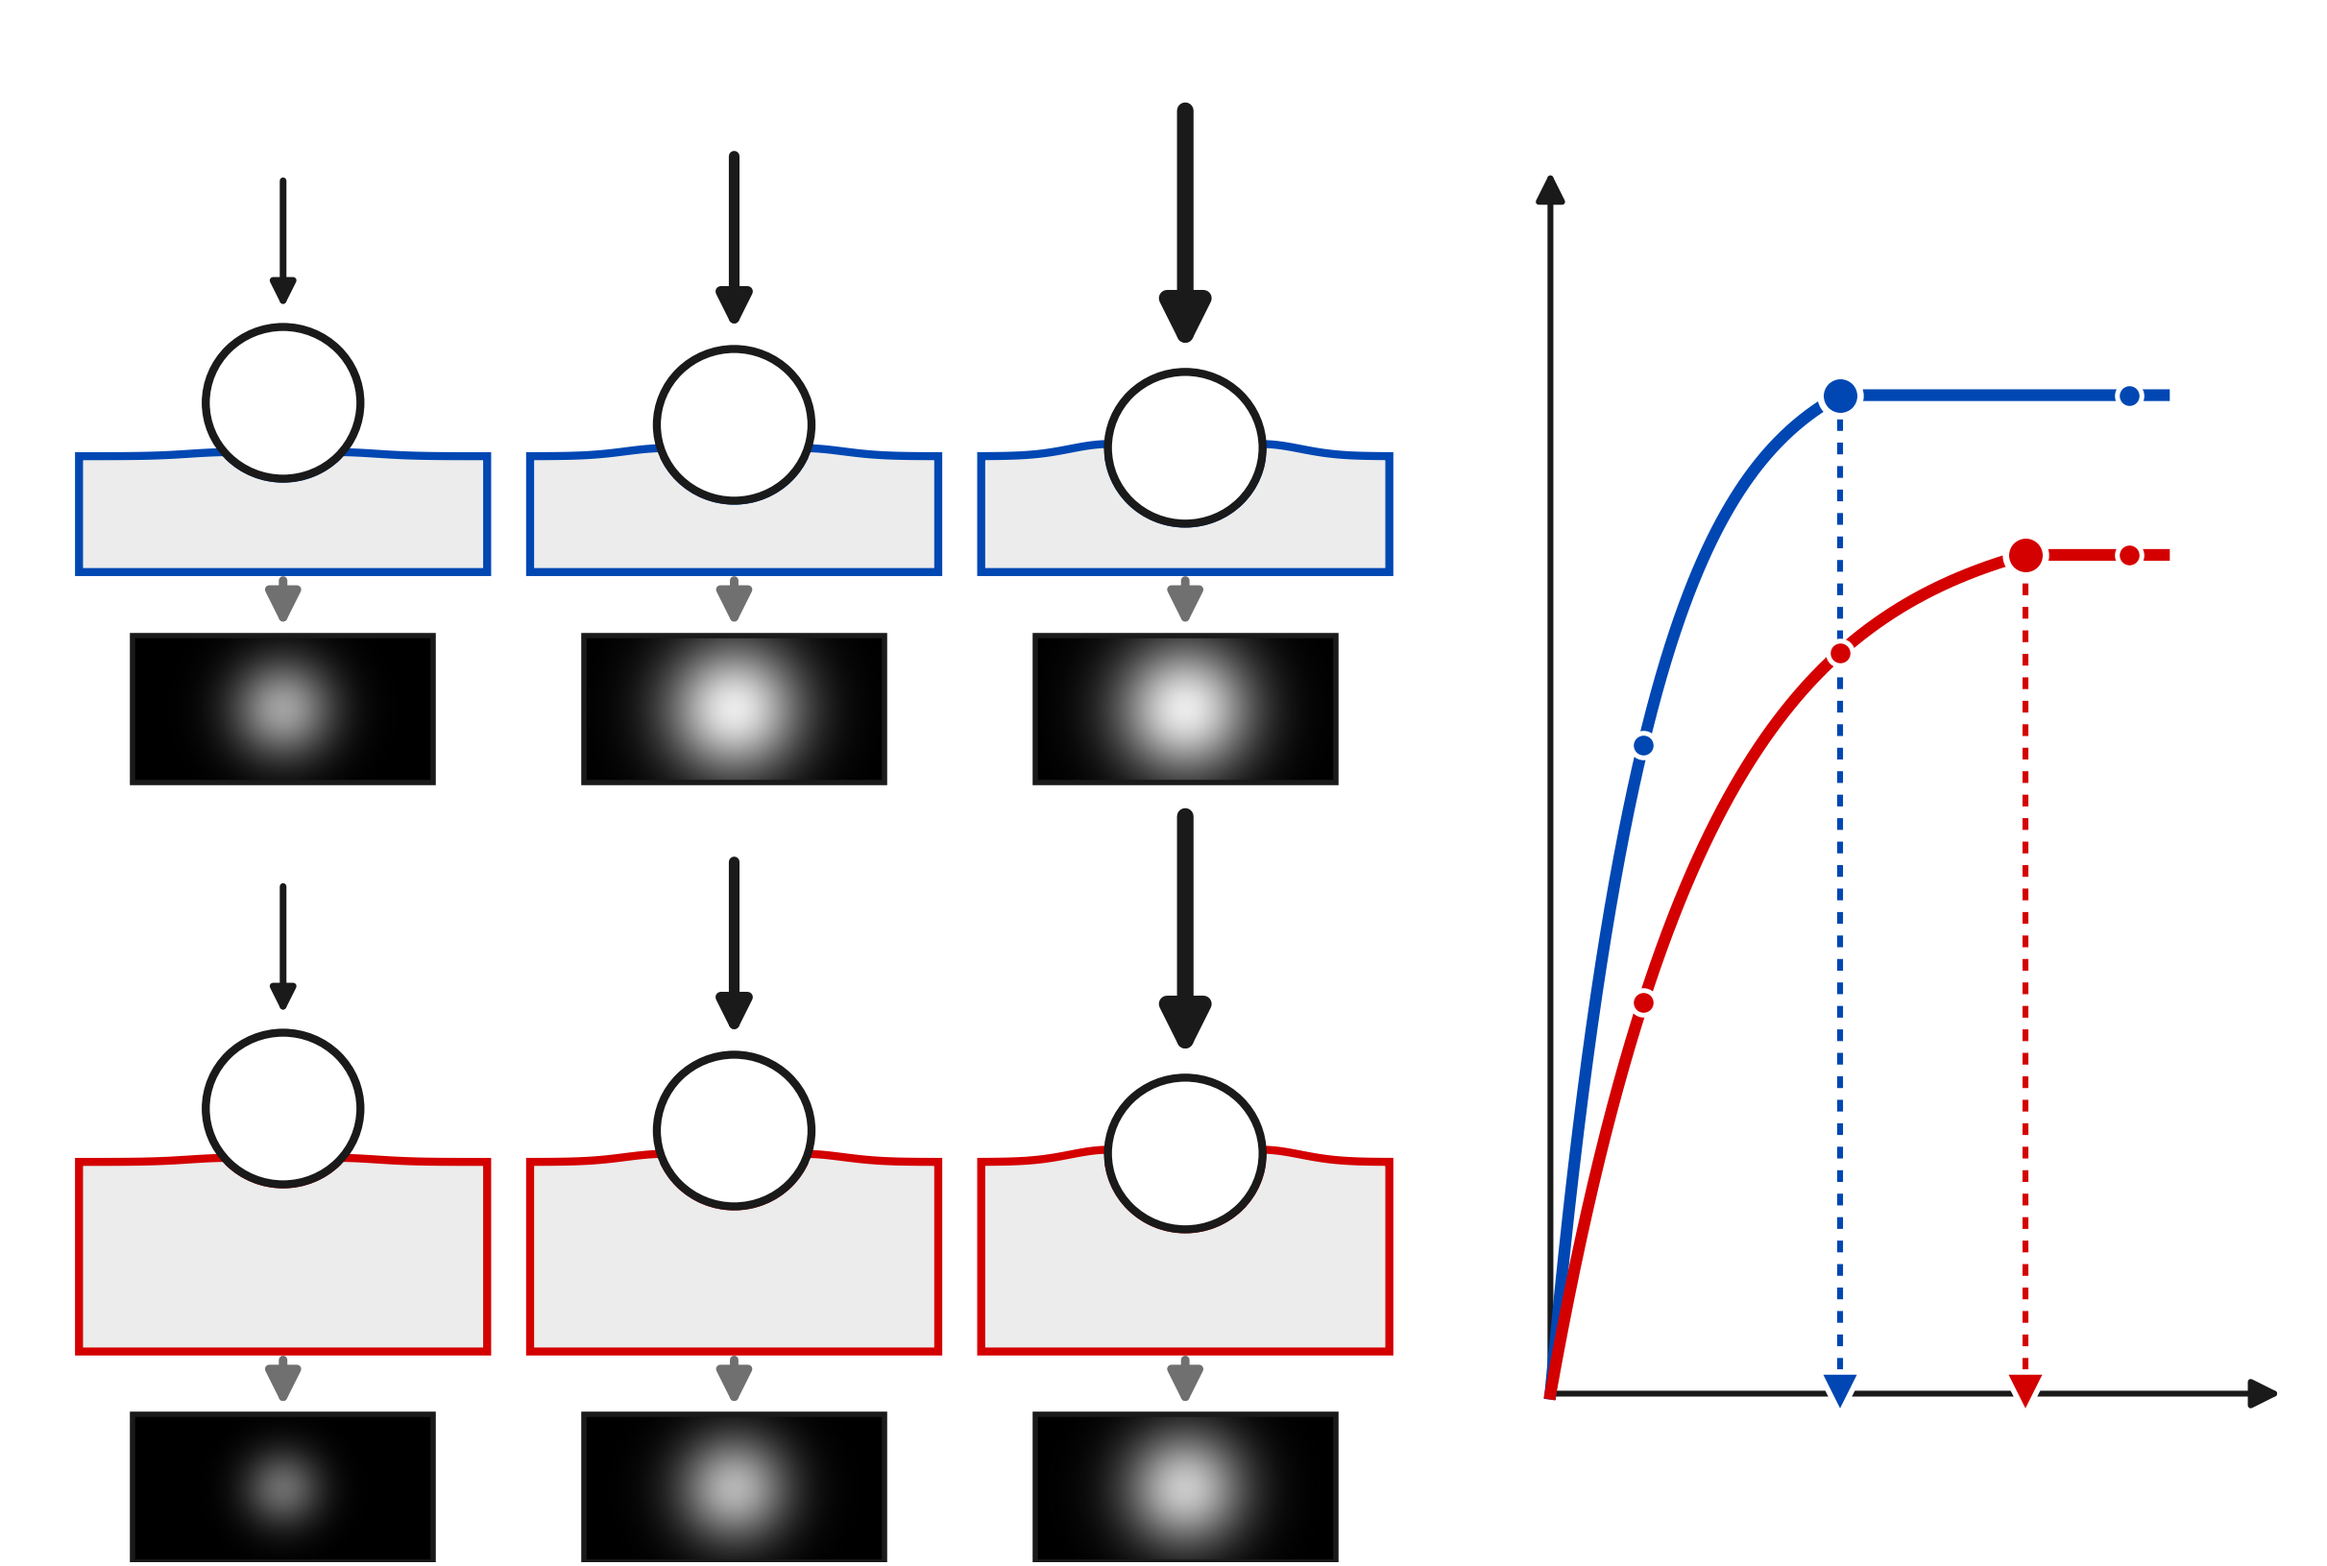
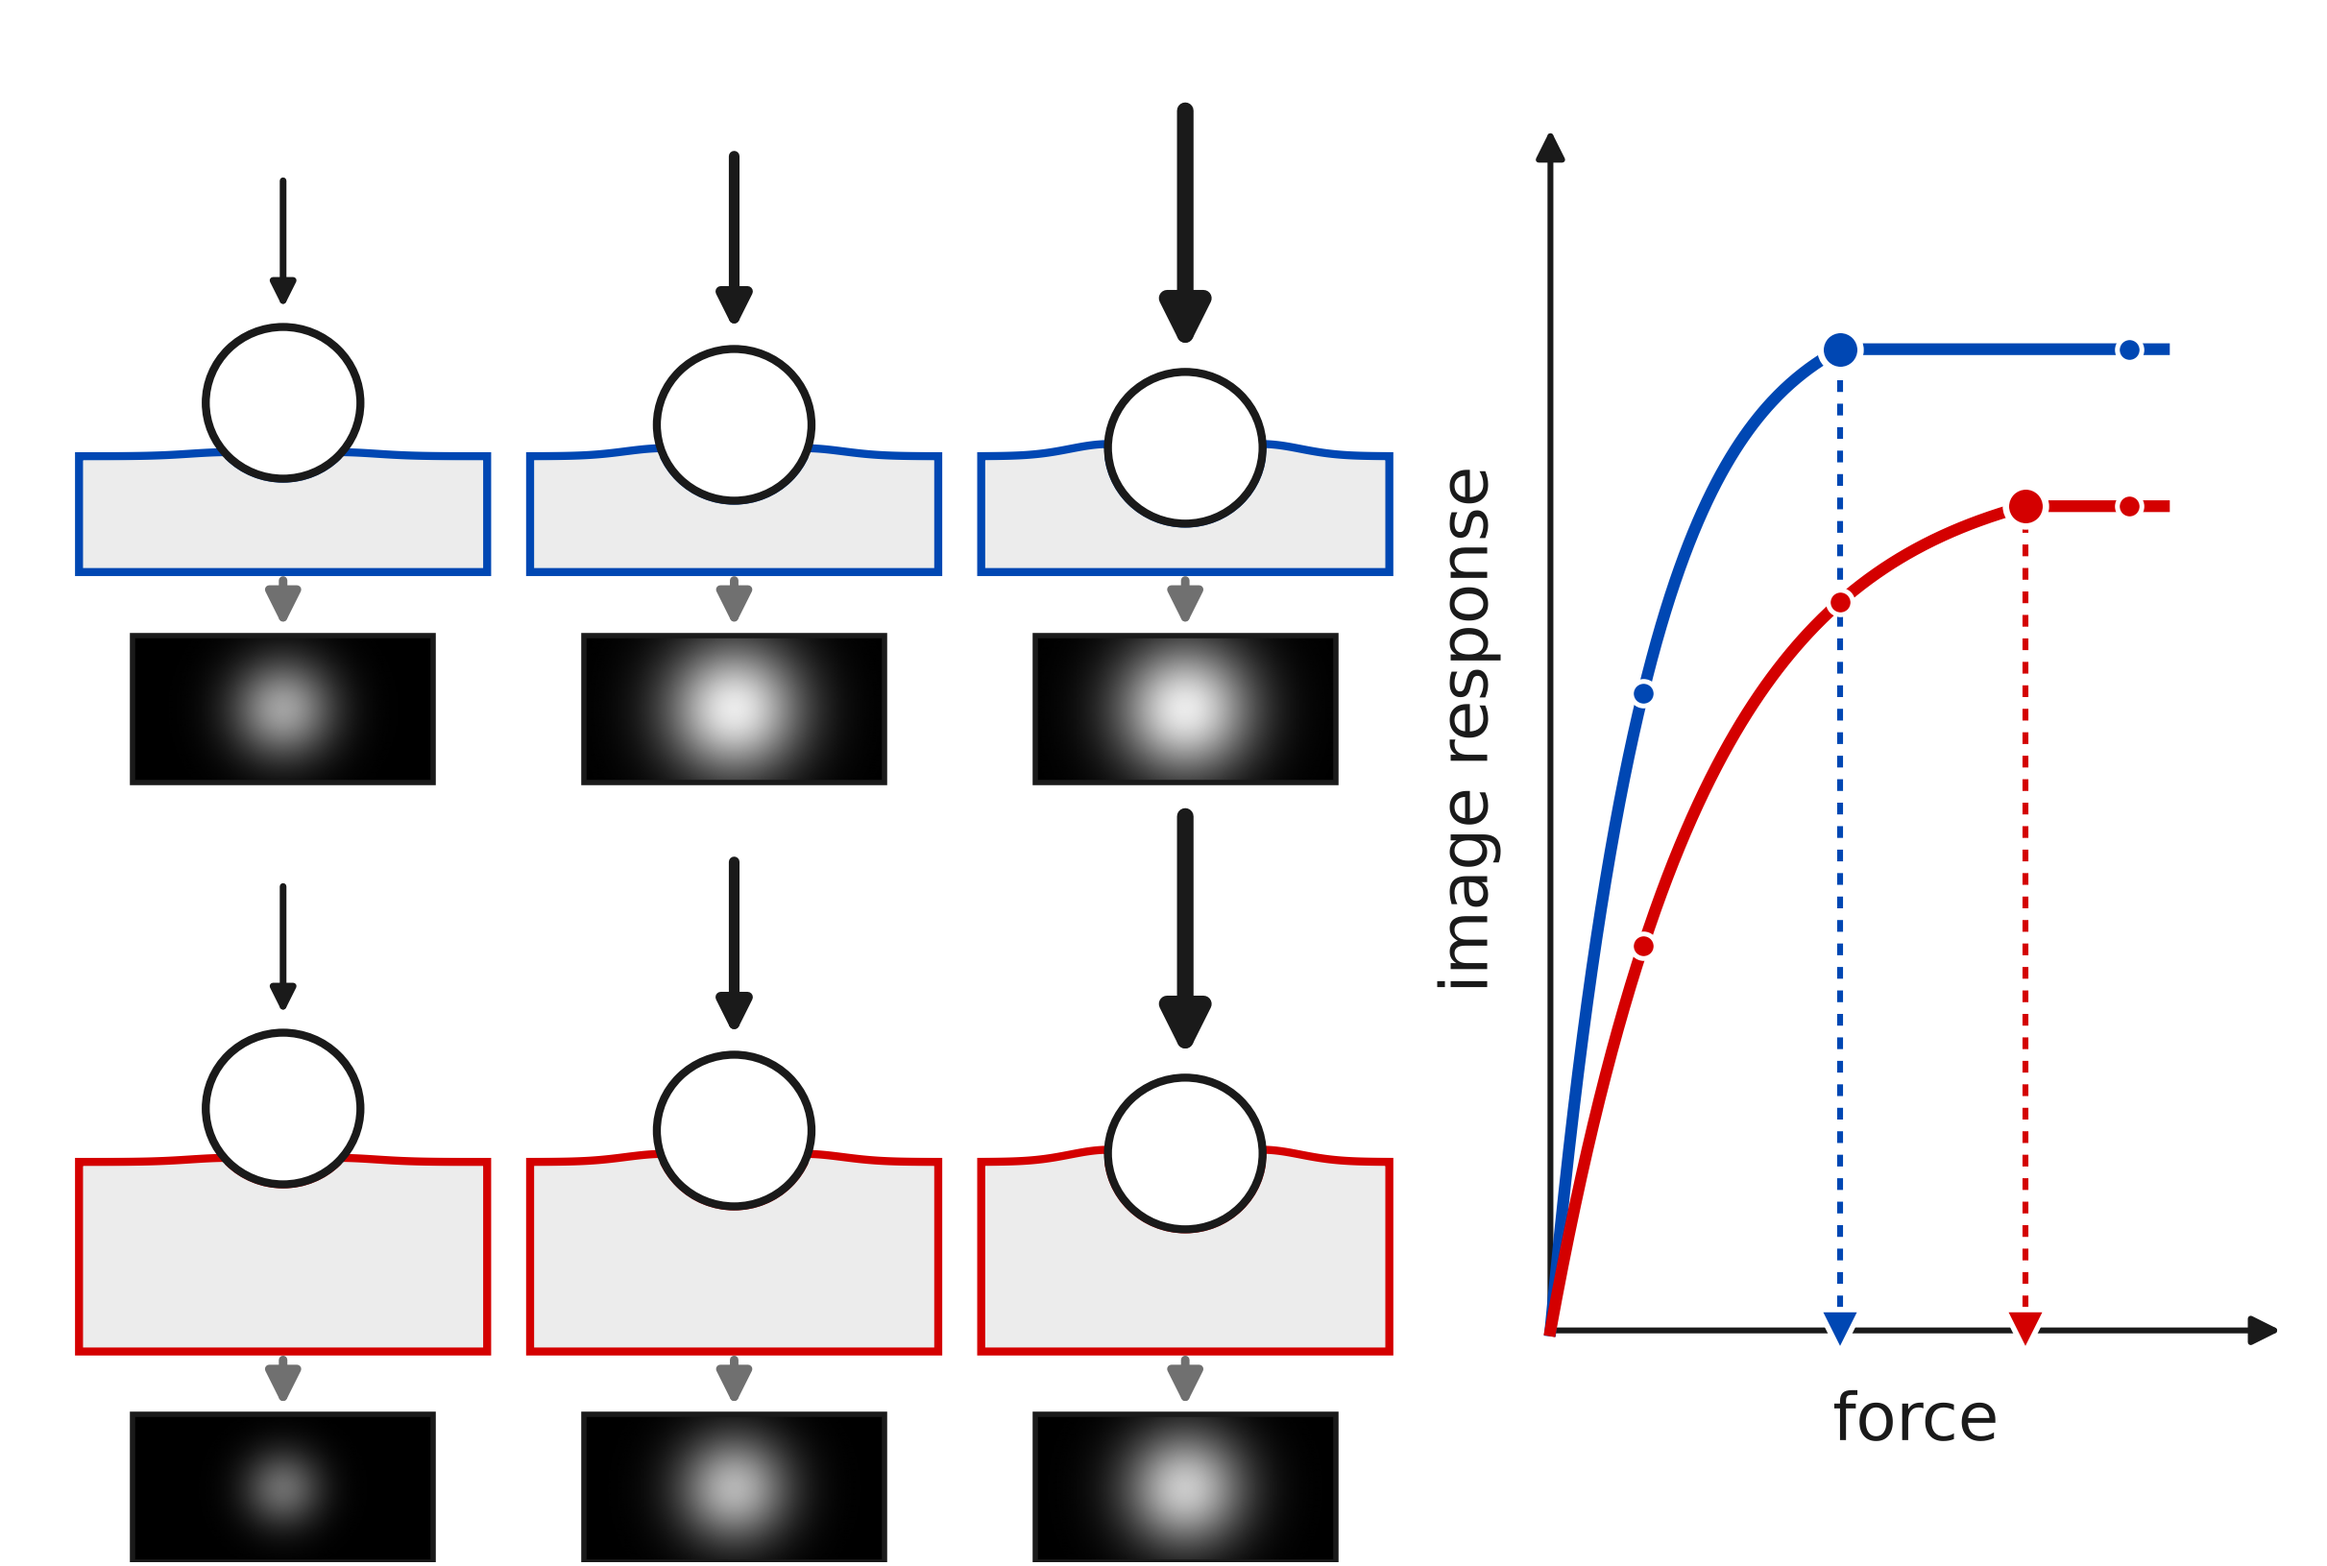
개념도의 곡선판에 축 이름 둘을 넣는다 — force · image response
왼쪽 여섯 칸은 그대로 글자가 없다. 곡선판만은 무엇 대 무엇인지 모르면 못 읽어서
이름을 남겼고, 눈금도 눈금값도 범례도 여전히 없다.

**단위는 적지 않는다.** 규격화한 그림용 값이라 `[N]` 을 적으면 잰 값으로 읽힌다 —
그림 전체가 "개념도이지 자료가 아니다" 로 서 있어야 한다.

이름이 들어갈 자리를 만드느라 곡선판의 위아래를 조금 좁혔다.

Claude-Session: https://claude.ai/code/session_016iQhAWxVDAfi9YqRbr7KDo

diff --git a/paper/fin_figures/paper_fig_ceiling_schematic.py b/paper/fin_figures/paper_fig_ceiling_schematic.py
@@ -14,8 +14,10 @@
 **세 번째 칸에서 겔은 더 눌리는데 영상은 그대로다.** 그림 전체가 그 한 문장을
 위한 것이다 — 그 자리의 힘이 `fig_ceiling` 이 세로축에 찍는 값이다.
 
-**글자가 하나도 없다** (운전자 결정, 2026-09-15). 축 이름도 눈금도 범례도 없다.
-방향은 축 끝의 화살촉이 지고, 나머지는 캡션이 진다.
+**글자는 오른쪽 곡선판의 축 이름 둘뿐이다** (운전자 결정, 2026-09-15).
+눈금도 눈금값도 범례도 없다 — 곡선판만은 무엇 대 무엇인지 모르면 못 읽어서
+이름 둘을 남겼고, 나머지는 캡션이 진다. 단위를 적지 않는 것은 **그린 값이지 잰
+값이 아니기** 때문이다.
 
 **이것은 개념도다 — 자료가 아니다.**
     곡선도 자국도 **그려 넣은 것**이고 잰 값이 아니다. 두 줄이 다른 자리에서
@@ -73,6 +75,9 @@ STRIP_W, STRIP_H = 14.0, 7.0     # 카메라 영상 띠 (16:9 에 가깝게)
 STRIP_Y, GEL_Y, ROW_H = 0.0, 10.0, 37.0
 ROW_Y = (37.0, 0.0)              # 얇은 줄이 위
 PLOT_X = (72.0, 106.0)           # 오른쪽 곡선 판
+# 축 이름. **단위를 적지 않는다** — 규격화한 그림용 값이라 [N] 을 적으면 잰 값으로
+# 읽힌다.
+X_NAME, Y_NAME = "force", "image response"
 GEL_FILL = "#ececec"
 BALL_FILL = "#ffffff"
 
@@ -164,6 +169,11 @@ def curve_panel(ax, y_lo, y_hi):
                 arrowprops=dict(arrowstyle="-|>", color=PS.INK, lw=1.1,
                                 shrinkA=0, shrinkB=0, mutation_scale=11))
 
+    ax.text((x0 + x1) / 2, y_lo - 2.8, X_NAME, ha="center", va="top",
+            color=PS.INK)
+    ax.text(x0 - 2.2, (y_lo + y_hi) / 2, Y_NAME, ha="center", va="bottom",
+            rotation=90, rotation_mode="anchor", color=PS.INK)
+
     span_x, span_y = (x1 - x0) * 0.84, (y_hi - y_lo) * 0.86
     rows = []
     for r in ROWS:
@@ -206,10 +216,11 @@ def main():
             strip(ax, xc, y0 + STRIP_Y, response(f, r))
             look(ax, xc, y0 + GEL_Y - 0.4, y0 + STRIP_Y + STRIP_H + 0.4)
 
-    stages = curve_panel(ax, 8.0, 2 * ROW_H - 8.0)
+    stages = curve_panel(ax, 11.0, 2 * ROW_H - 6.0)
     PS.save(fig, stages, "fig_ceiling_schematic")
-    print("  개념도 — 글자 없음. 멈추는 자리: " + " · ".join(
-        f"두께 {r['thickness']} mm → {r['ceiling']:.2f}" for r in ROWS))
+    print(f"  개념도 — 글자는 축 이름 둘({X_NAME} · {Y_NAME}). 멈추는 자리: "
+          + " · ".join(
+            f"두께 {r['thickness']} mm → {r['ceiling']:.2f}" for r in ROWS))
 
 
 if __name__ == "__main__":
